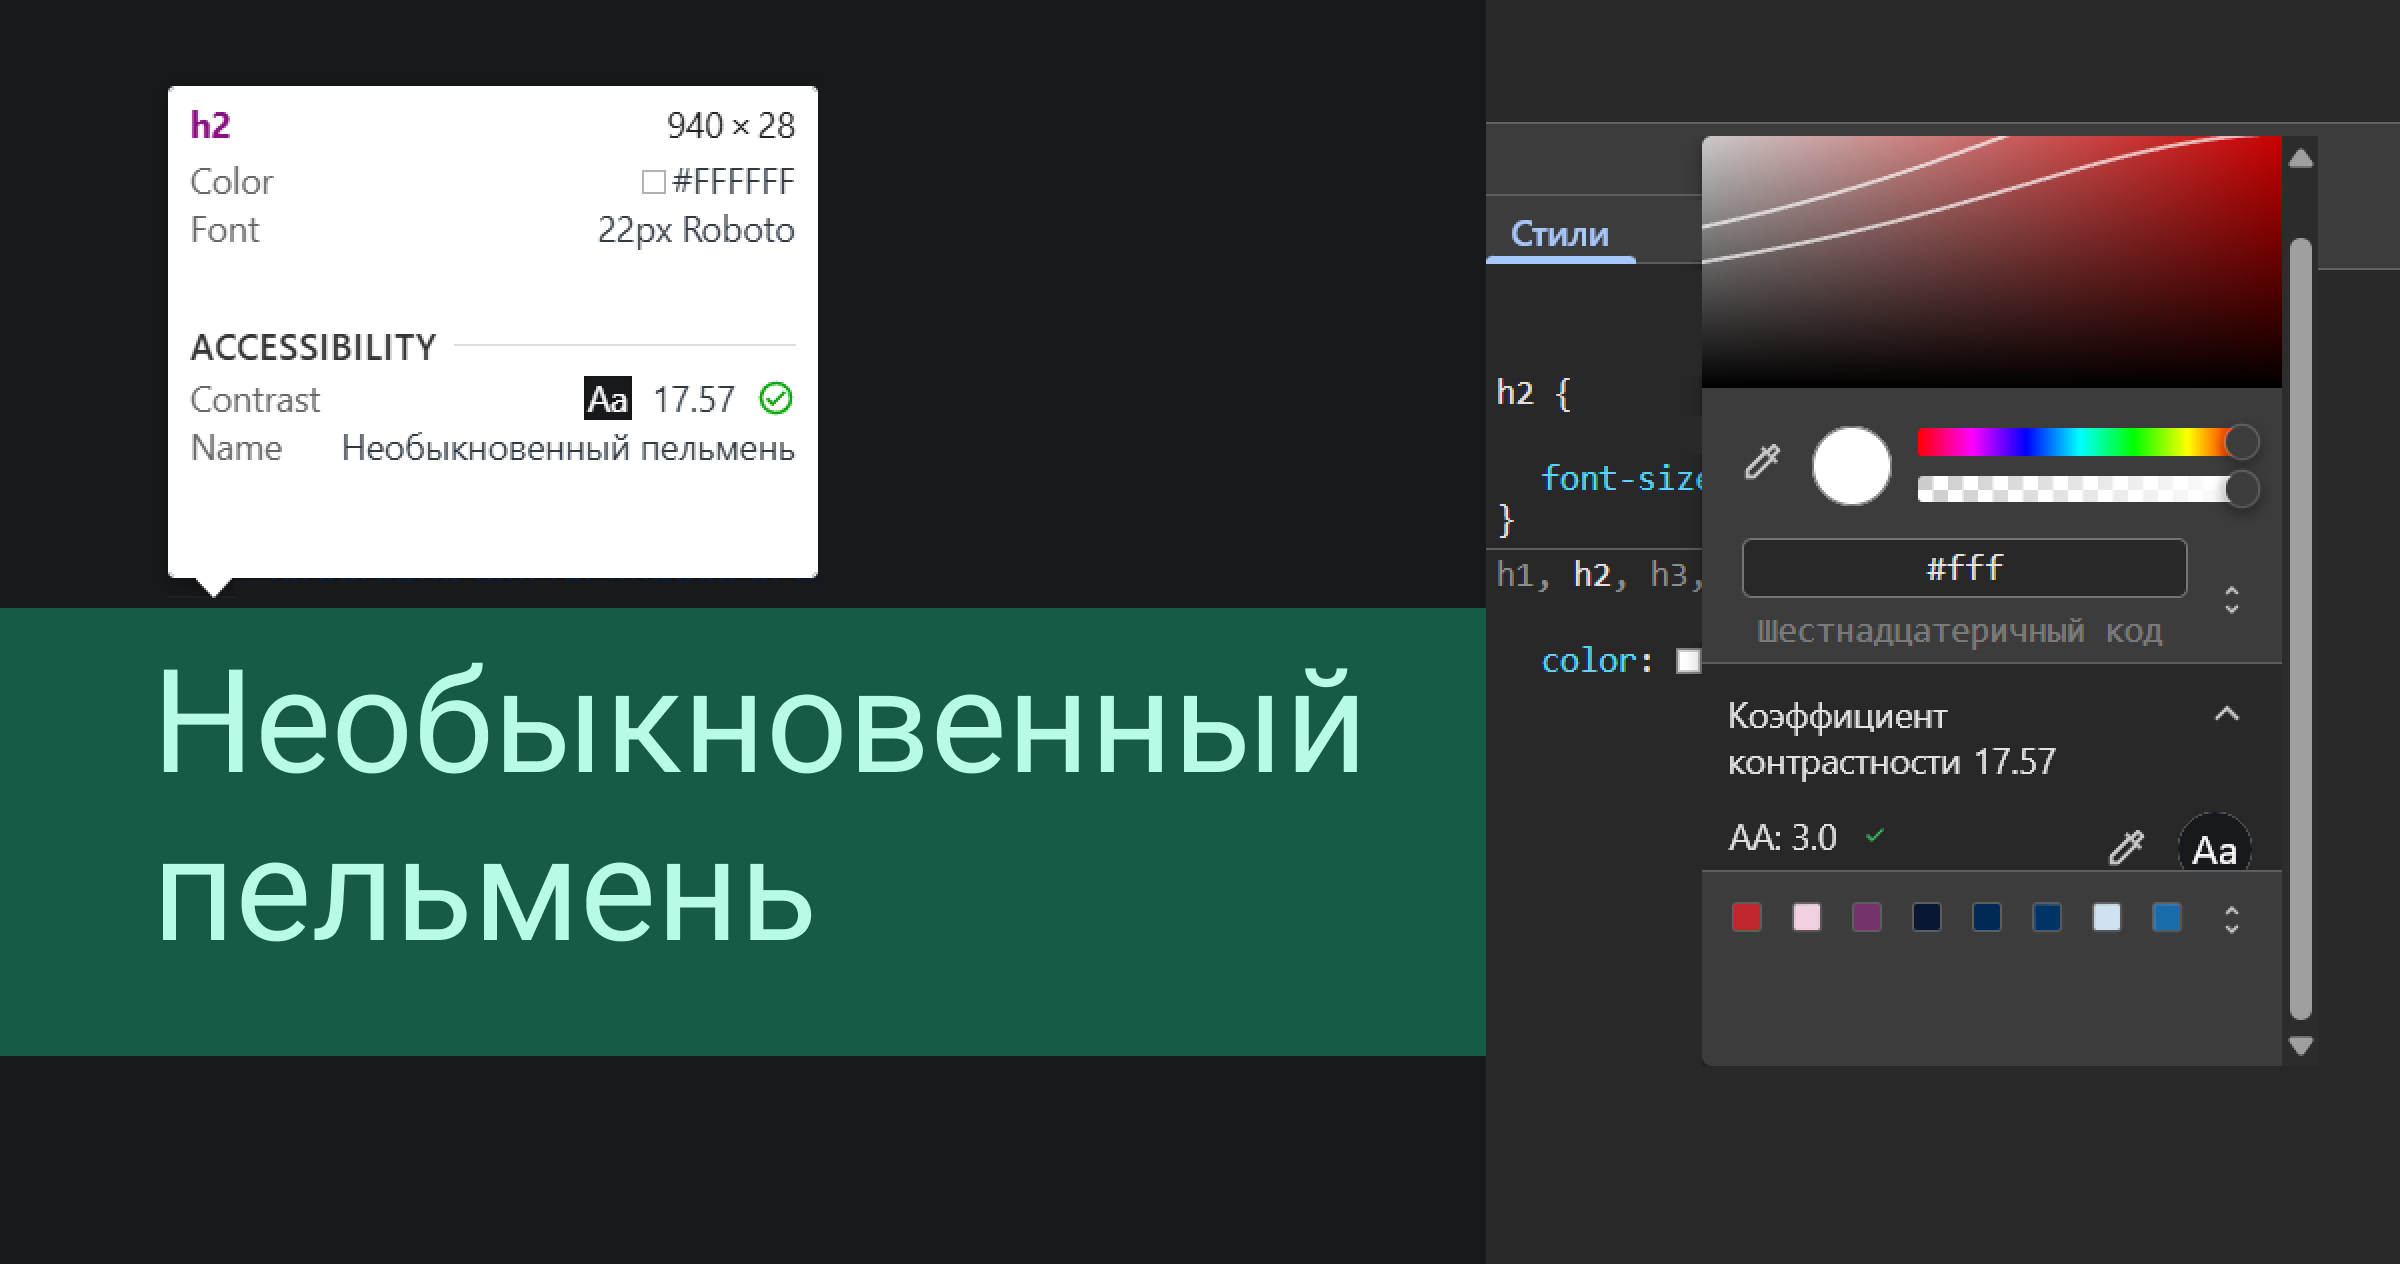
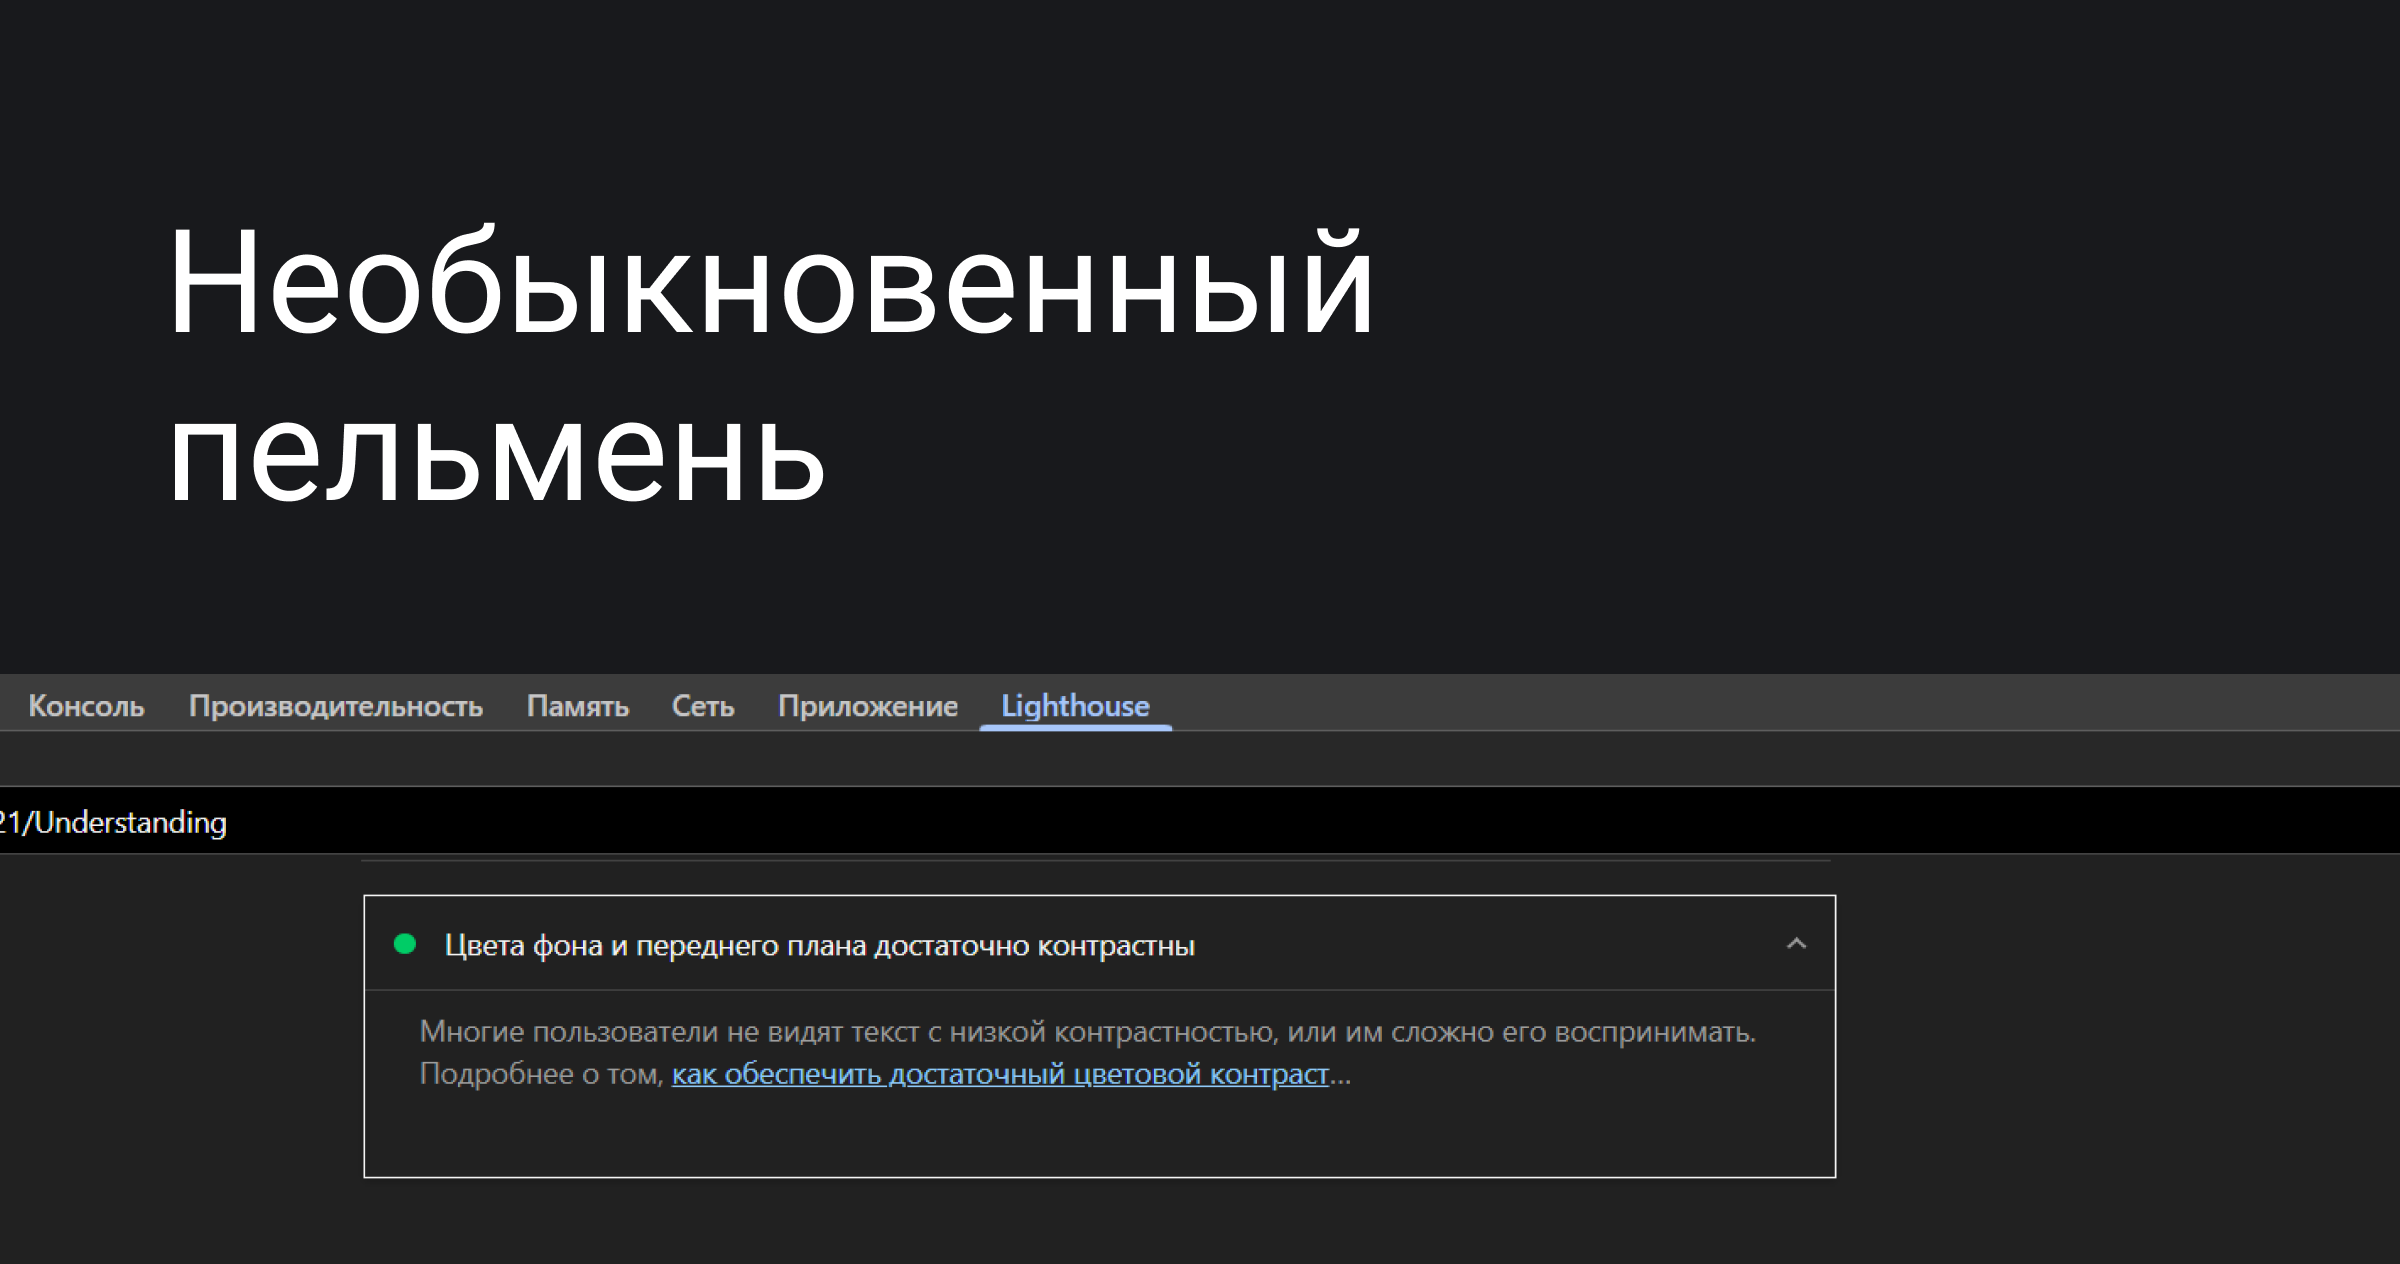
Дополняет инфой: браузерная эмуляция

diff --git a/a11y/color-contrast/index.md b/a11y/color-contrast/index.md
@@ -11,7 +11,7 @@ tags:
   - article
 ---
 
-**Контраст в дизайне интерфейсов** — это противопоставление или резкое отличие по цвету и яркости между отдельными элементами; значимая или заметная разница между элементами в интерфейсе. 
+**Контраст в дизайне интерфейсов** — это противопоставление или резкое отличие по цвету и яркости между отдельными элементами; значимая или заметная разница между элементами в интерфейсе.
 
 ## Зачем нам знать о контрасте
 
@@ -63,7 +63,7 @@ tags:
 
 ![Интерфейс раздела проверки контраста в Chrome.](images/1.png)
 
-![Информация о контрасте в отчёте Lighthouse в Chrome.](images/2.png)
+![Информация о контрасте из отчёта Lighthouse в Chrome.](images/2.png)
 
 **Ручная проверка**:
 
@@ -71,4 +71,8 @@ tags:
 
 **Эмпатическое тестирование**:
 
-проверка интерфейса с включёнными режимами дальтонизма или пониженной яркости (есть в macOS, Windows, Figma, браузерах).
+проверка интерфейса с включёнными режимами дальтонизма, нечёткого зрения, пониженной или пониженной контрастности (есть в браузерах, Windows, Figma и на macOS).
+
+Например, в Chrome эмуляция особенностей зрения находится во вкладке «Отрисовка». Можно эмулировать нечёткое зрение, пониженную контрастность, все виды дальтонизма (когда не воспринимается красный, зелёный, синий или ни один из цветов RGB-спектра). В этой же вкладке включается эмуляция [`prefers-contrast`](/a11y/prefers-contrast/) — одного из значений директивы [`@media`](/css/media/).
+
+![Информация о контрасте из отчёта Lighthouse в Chrome.](images/3.png)
